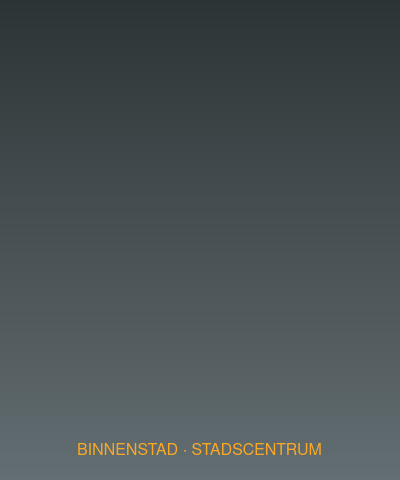
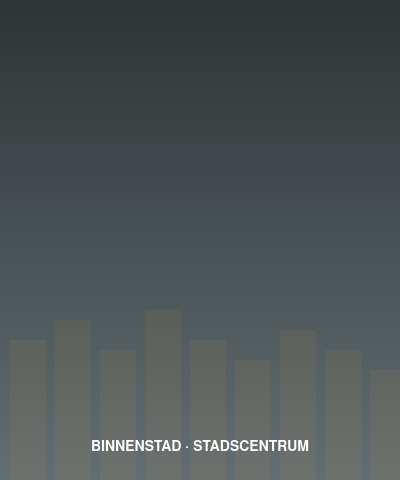
fix: stedelijkheid gradient images with silhouettes + doorlooptijd counting-up animation
Stedelijkheid images:
- Replace broken stock photos with ImageMagick gradient placeholders
- Each has themed gradient + architectural silhouettes:
  zeer-sterk: dark obsidian + skyline bars + amber label
  sterk: grey urban + compact buildings
  matig: green-grey + roof triangles
  weinig: warm earth + church spire
  niet: green + horizon line
- Labels in Dutch: Hoogbouw, Binnenstad, Woonwijk, Dorp, Agrarisch

Doorlooptijd card:
- AnimatedNumber component using framer-motion useSpring + useTransform
- Counts up from 0 to actual value with spring physics (stiffness 40)
- 'dagen gemiddeld' label at bottom (like 'stukken gevonden')
- Color-coded by threshold (green/amber/red)

Changed region(s): [[0.48, 0.9062, 0.81, 0.9688], [0.18, 0.9062, 0.45, 0.9688]]

diff --git a/frontend/src/components/map/panels/gemeente/GemeenteOverview.tsx b/frontend/src/components/map/panels/gemeente/GemeenteOverview.tsx
@@ -1,5 +1,5 @@
-import { useMemo } from 'react'
-import { motion, type Variants } from 'framer-motion'
+import { useMemo, useEffect } from 'react'
+import { motion, useSpring, useTransform, type Variants } from 'framer-motion'
 import {
   Search,
   Heart,
@@ -178,6 +178,61 @@ function ScoreCircleCard({
           {score !== null ? Math.round(score) : '—'}
         </span>
       </div>
+      <div />
+    </motion.div>
+  )
+}
+
+/* ── DoorlooptijdCard — counting-up animated days ──────────── */
+
+function AnimatedNumber({ value }: { value: number }) {
+  const spring = useSpring(0, { stiffness: 40, damping: 20 })
+  const display = useTransform(spring, (v) => `~${Math.round(v)}`)
+
+  useEffect(() => {
+    const timer = setTimeout(() => spring.set(value), 400)
+    return () => clearTimeout(timer)
+  }, [value, spring])
+
+  return (
+    <motion.span
+      className="text-5xl font-black tracking-tighter tabular-nums leading-none text-[#0E1111]"
+    >
+      {display}
+    </motion.span>
+  )
+}
+
+function DoorlooptijdCard({ doorlooptijd, onClick }: { doorlooptijd: number | null; onClick: () => void }) {
+  const color = doorlooptijd != null
+    ? doorlooptijd <= 30 ? '#22C55E' : doorlooptijd <= 90 ? '#F9A826' : '#EF4444'
+    : '#94a3b8'
+
+  return (
+    <motion.div
+      variants={fadeUp}
+      role="button"
+      tabIndex={0}
+      onClick={onClick}
+      onKeyDown={(e) => { if (e.key === 'Enter' || e.key === ' ') onClick() }}
+      className="flex flex-col justify-between h-full rounded-[24px] bg-white border border-[#EAEFEF] p-5 cursor-pointer transition-shadow hover:shadow-sm"
+    >
+      <div className="flex items-center gap-1.5">
+        <svg width="16" height="16" viewBox="0 0 24 24" fill="none" stroke="#94a3b8" strokeWidth="1.5" strokeLinecap="round" strokeLinejoin="round"><circle cx="12" cy="12" r="10"/><polyline points="12 6 12 12 16 14"/></svg>
+        <span className="text-[11px] font-extrabold uppercase text-slate-400" style={{ letterSpacing: '0.15em' }}>Doorlooptijd</span>
+      </div>
+      <div className="flex items-center justify-center flex-1">
+        {doorlooptijd != null ? (
+          <AnimatedNumber value={doorlooptijd} />
+        ) : (
+          <span className="text-5xl font-black tracking-tighter tabular-nums leading-none text-slate-200">—</span>
+        )}
+      </div>
+      {doorlooptijd != null && (
+        <span className="text-[10px] font-bold text-center" style={{ color }}>
+          dagen gemiddeld
+        </span>
+      )}
       <div />
     </motion.div>
   )
@@ -393,43 +448,8 @@ export function GemeenteOverview({
           onClick={onSwitchToVergunningen}
         />
 
-        {/* Doorlooptijd — animated dagen card */}
-        <motion.div
-          variants={fadeUp}
-          role="button"
-          tabIndex={0}
-          onClick={onSwitchToVergunningen}
-          onKeyDown={(e) => { if (e.key === 'Enter' || e.key === ' ') onSwitchToVergunningen() }}
-          className="flex flex-col justify-between h-full rounded-[24px] bg-white border border-[#EAEFEF] p-5 cursor-pointer transition-shadow hover:shadow-sm"
-        >
-          <div className="flex items-center gap-1.5">
-            <svg width="16" height="16" viewBox="0 0 24 24" fill="none" stroke="#94a3b8" strokeWidth="1.5" strokeLinecap="round" strokeLinejoin="round"><circle cx="12" cy="12" r="10"/><polyline points="12 6 12 12 16 14"/></svg>
-            <span className="text-[11px] font-extrabold uppercase text-slate-400" style={{ letterSpacing: '0.15em' }}>Doorlooptijd</span>
-          </div>
-          <div className="flex flex-col items-center justify-center flex-1 gap-1">
-            <motion.span
-              className="text-5xl font-black tracking-tighter tabular-nums leading-none"
-              style={{ color: doorlooptijd != null ? '#0E1111' : '#cbd5e1' }}
-              initial={{ opacity: 0, scale: 0.8 }}
-              animate={{ opacity: 1, scale: 1 }}
-              transition={{ type: 'spring', stiffness: 200, damping: 15, delay: 0.5 }}
-            >
-              {doorlooptijd != null ? `~${doorlooptijd}` : '—'}
-            </motion.span>
-            {doorlooptijd != null && (
-              <motion.span
-                className="text-[12px] font-bold"
-                style={{ color: doorlooptijd <= 30 ? '#22C55E' : doorlooptijd <= 90 ? '#F9A826' : '#EF4444' }}
-                initial={{ opacity: 0 }}
-                animate={{ opacity: 1 }}
-                transition={{ delay: 0.7 }}
-              >
-                dagen
-              </motion.span>
-            )}
-          </div>
-          <div />
-        </motion.div>
+        {/* Doorlooptijd — counting-up animated dagen card */}
+        <DoorlooptijdCard doorlooptijd={doorlooptijd} onClick={onSwitchToVergunningen} />
       </div>
 
       {/* ── Secondary Fields ─────────────────────────── */}
